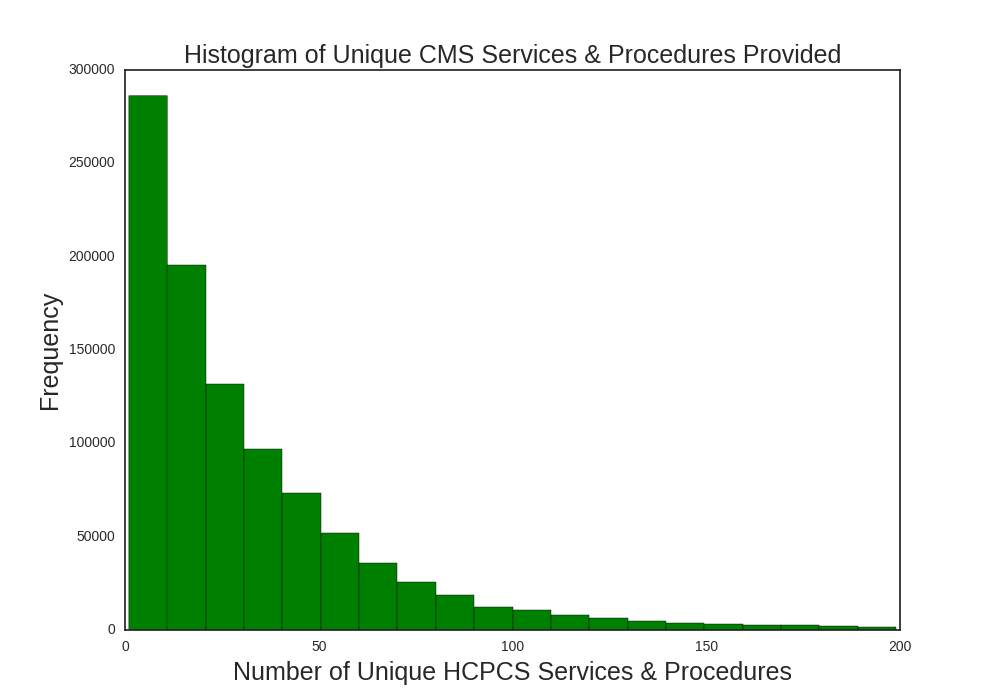
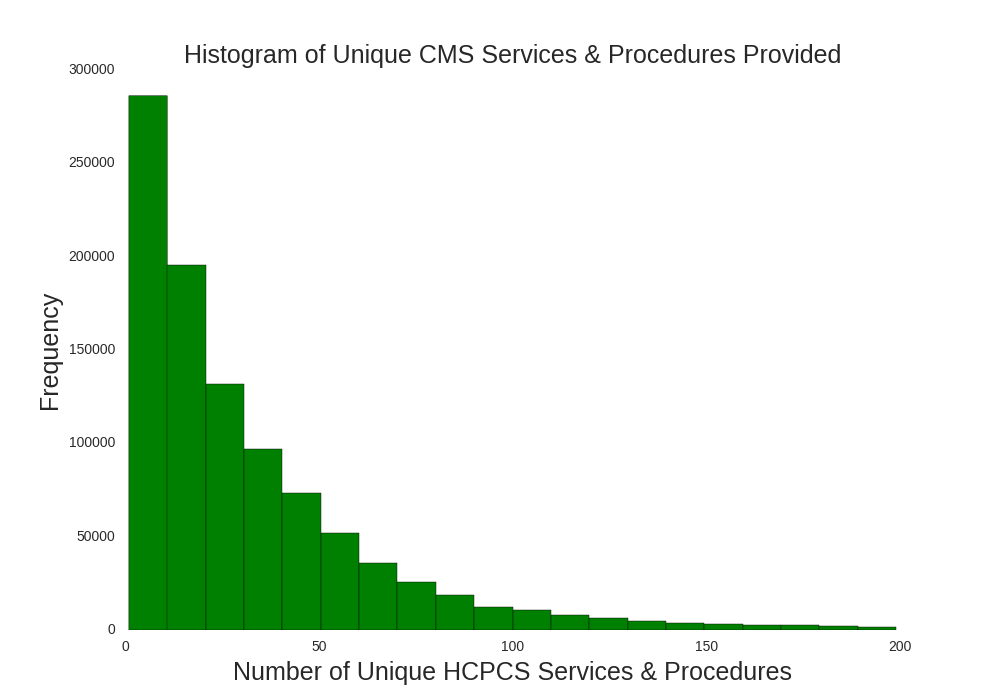
Minor updating of templates and views function to apply app.config

Changed region(s): [[0.124, 0.87, 0.155, 0.9], [0.124, 0.09, 0.155, 0.12]]

diff --git a/api/templates/state.html b/api/templates/state.html
@@ -103,8 +103,8 @@
         <script src={{ prev_js }}></script>
         <script src={{ prev_js1 }}></script>
         <script>
-            var margin = {top: 40, right: 0, bottom: 30, left: 175},
-                width = 1700 - margin.left - margin.right,
+            var margin = {top: 40, right: 0, bottom: 30, left: 125},
+                width = 1500 - margin.left - margin.right,
                 height = 600 - margin.top - margin.bottom;
 
             var formatPercent = d3.format(".0%");

diff --git a/api/templates/cost_hcpcs.html b/api/templates/cost_hcpcs.html
@@ -76,7 +76,7 @@
     <div class="container-fluid">
         <div align="center">
         <img src="{{ unique_fig }}" width="600" height="350">
-        <img src="{{ pie_fig }}" width="600" height="400">
+        <img src="{{ pie_fig }}" width="500" height="400">
         </div>
     </div>
     <div id="body"></div>

diff --git a/api/views.py b/api/views.py
@@ -29,6 +29,7 @@ def get_db():
 
 @app.route('/')
 def home():
+    get_db() # confirm db exist
     return render_template("home.html", img_file=url_for('static', filename='img/cms_logo.jpg'))
 
 
@@ -607,72 +608,8 @@ def procedure():
 
 @app.route('/data')
 def data():
-
-    # db_file = get_db()
-    # conn = sqlite3.connect(db_file)  # create/open database
-    # conn.row_factory=sqlite3.Row
-    #
-    # # with conn:
-    # #     c = conn.cursor()
-    # #
-    # #     c.execute('''SELECT * FROM report''')
-    # #     rows = c.fetchall()
-
-    # columns = ["npi", "provider_last_name", "provider_first_name", "provider_middle_initial", "provider_credentials",
-    #            "provider_gender", "provider_entity_type", "provider_street_address_1", "provider_street_address_2",
-    #            "provider_city",
-    #            "provider_zip_code", "provider_state_code", "provider_country_code", "provider_type",
-    #            "medicare_participation_indicator",
-    #            "number_of_HCPCS", "number_of_services", "number_of_medicare_beneficiaries",
-    #            "total_submitted_charge_amount",
-    #            "total_medicare_allowed_amount", "total_medicare_payment_amount",
-    #            "total_medicare_standardized_payment_amount",
-    #            "drug_suppress_indicator", "number_of_HCPCS_associated_with_drug_services", "number_of_drug_services",
-    #            "number_of_medicare_beneficiaries_with_drug_services", "total_drug_submitted_charge_amount",
-    #            "total_drug_medicare_allowed_amount",
-    #            "total_drug_medicare_payment_amount", "total_drug_medicare_standardized_payment_amount",
-    #            "medical_suppress_indicator",
-    #            "number_of_HCPCS_associated_medical_services", "number_of_medical_services",
-    #            "number_of_medicare_beneficiaries_with_medical_services",
-    #            "total_medical_submitted_charge_amount", "total_medical_medicare_allowed_amount",
-    #            "total_medical_medicare_payment_amount",
-    #            "total_medical_medicare_standardized_payment_amount", "average_age_of_beneficiaries",
-    #            "number_of_beneficiaries_age_less_65",
-    #            "number_of_beneficiaries_age_65_to_74", "number_of_beneficiaries_age_75_to_84",
-    #            "number_of_beneficiaries_age_greater_84",
-    #            "number_of_female_beneficiaries", "number_of_male_beneficiaries",
-    #            "number_of_non_hispanic_white_beneficiaries",
-    #            "number_of_african_american_beneficiaries", "number_of_asian_pacific_islander_beneficiaries",
-    #            "number_of_hispanic_beneficiaries",
-    #            "number_of_american_indian_alaskan_native_beneficiaries",
-    #            "number_of_beneficiaries_with_race_not_elsewhere_classified",
-    #            "number_of_beneficiaries_with_medicare_only_entitlement",
-    #            "number_of_beneficiaries_with_medicare_and_medicaid_entitlement",
-    #            "percent_of_beneficiaries_identified_with_atrial_fibrillation",
-    #            "percent_of_beneficiaries_identified_with_alzheimers_disease_or_dementia",
-    #            "percent_of_beneficiaries_identified_with_asthma", "percent_of_beneficiaries_identified_with_cancer",
-    #            "percent_of_beneficiaries_identified_with_heart_failure",
-    #            "percent_of_beneficiaries_identified_with_chronic_kidney_disease",
-    #            "percent_of_beneficiaries_identified_with_chronic_obstructive_pulmonary_disease",
-    #            "percent_of_beneficiaries_identified_with_depression",
-    #            "percent_of_beneficiaries_identified_with_diabetes",
-    #            "percent_of_beneficiaries_identified_with_hyperlipidemia",
-    #            "percent_of_beneficiaries_identified_with_hypertension",
-    #            "percent_of_beneficiaries_identified_with_ischemic_heart_disease",
-    #            "percent_of_beneficiaries_identified_with_osteoporosis",
-    #            "percent_of_beneficiaries_identified_with_rheumatoid_arthritis_osteoarthritis",
-    #            "percent_of_beneficiaries_identified_with_schizophrenia_other_psychotic_disorders",
-    #            "percent_of_beneficiaries_identified_with_stroke",
-    #            "average_HCC_risk_score_of_beneficiaries"]
-    #
-    # df=pd.read_sql('SELECT * FROM report;', conn, columns=columns)
-    # data = df.head().as_matrix().astype(str)
-
     return render_template("data.html", cms_img=url_for('static', filename='img/cms_logo.jpg'),
                            bchc_img=url_for('static', filename='img/bch_logo.png'))
-    # df = df.head() #head - dataframe
-    # data = json.loads(df.to_json()) #exports data frame as json string --> load/parsed json into python object (dict or lsit)
-    # return jsonify(data)
 
 
 @app.route('/data/report')

diff --git a/project.py b/project.py
@@ -1,4 +1,4 @@
-from api import db
+from api import db, app
 from api.models import Report, Puf, Cancer
 # from config import SQLALCHEMY_DATABASE_URI
 import config
@@ -206,9 +206,8 @@ def readBCH():
 def init_db():
 
     #Create engine to store data in local directory's db file
-    db_name = os.path.basename(config.BaseConfig['SQLALCHEMY_DATABASE_URI'])
+    db_name = os.path.basename(app.config['SQLALCHEMY_DATABASE_URI'])
     db_path=os.path.join(get_path(), db_name) #hardcode
-    engine = db.engine # sqlalchemy lib -- engine=create_engine('sqlite:///%s' % (db_path))
 
     db_is_new = not os.path.exists(db_path)
     if db_is_new:
@@ -224,8 +223,8 @@ def init_db():
         #Insert Data -- Bulk insert of DataFrame
         df_report = readCSV()
         report_lst = df_report.to_dict(orient='records')  # orient by records to align format
-        # db.session.execute(Report.__table__.insert(), report_lst)
-        # db.session.commit()
+        db.session.execute(Report.__table__.insert(), report_lst)
+        db.session.commit()
         df_puf = readPUF()
         for elem in df_puf[:5]:
             puf_lst = elem.to_dict(orient='records')

diff --git a/config.py b/config.py
@@ -1,10 +1,5 @@
 import os
 
-# basedir = os.path.abspath(os.path.dirname(__file__))
-# db_path = os.path.join(basedir, 'api', 'dataset', 'cms.db')
-# SQLALCHEMY_DATABASE_URI = 'sqlite:///' + db_path  # required by Flask-SQLAlchemy extension -- path to db file
-# SQLALCHEMY_TRACK_MODIFICATIONS = False
-
 
 class BaseConfig(object):
 
@@ -12,10 +7,9 @@ class BaseConfig(object):
     db_path=os.path.join(basedir, 'api', 'dataset', 'cms.db')
     SQLALCHEMY_DATABASE_URI = 'sqlite:///' + db_path #required by Flask-SQLAlchemy extension -- path to db file
     SQLALCHEMY_TRACK_MODIFICATIONS = False
-    # print SQLALCHEMY_DATABASE_URI
 
 class DevelopmentConfig(BaseConfig):
     DEBUG=True
 
 class ProductionConfig(BaseConfig):
-    
+    DEBUG=True
